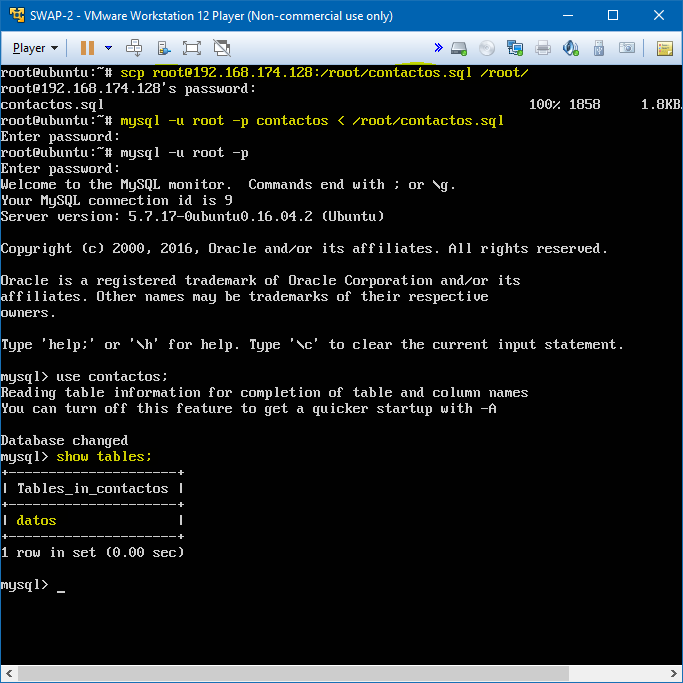
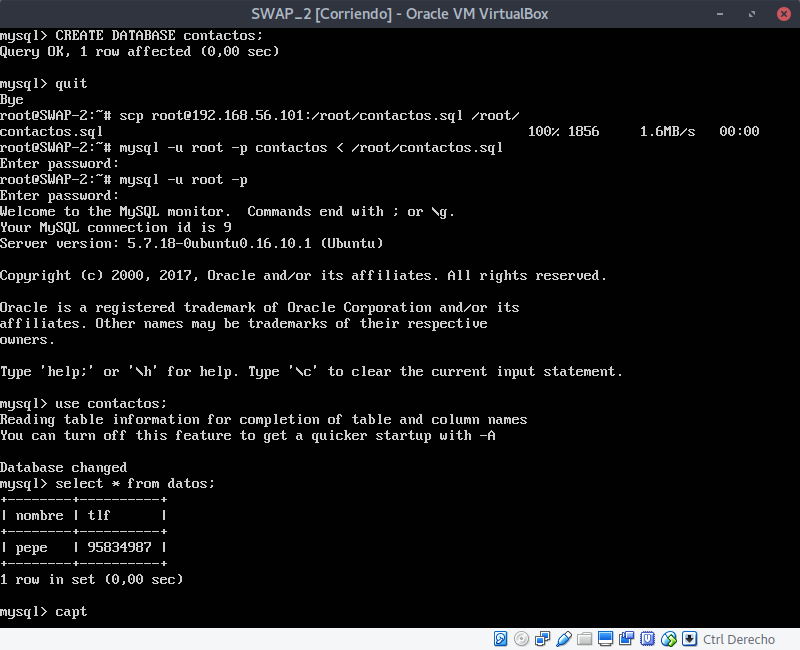
práctica 5 terminada

diff --git a/Practica5/readme.md b/Practica5/readme.md
@@ -26,7 +26,7 @@ La secuencia de comandos a seguir será la siguiente:
 mysql -u root -p
 mysql> FLUSH TABLES WITH READ LOCK;   #para bloquear la escritura en las tablas mientras son copiadas
 mysql> QUIT;
-mysqldumpl contactos -u root -p > /root/contactos.sql
+mysqldump contactos -u root -p > /root/contactos.sql
 mysql -u root -p
 mysql> UNLOCK TABLES;
 ```
@@ -35,8 +35,65 @@ mysql> UNLOCK TABLES;
 
 ### 3 - Restaurar dicha copia en la segunda máquina (clonado manual de la BD).
 
+Para finalizar con la parte relativa al clonado de la base de datos, tocará irse a la segunda máquina servidora, crear la base de datos de igual nombre que en la primera, e invocar el siguiente comando `scp` que será quien obtenga el archivo .sql de la primera máquina:
+
+```bash
+scp root@IP-MAQUINA1:/root/BASEDEDATOS.sql /root/
+```
+
+A continuación, bastará con volcar el contenido del archivo obtenido en la nueva base de datos previamente creada. Con esto bastará para tener la base de datos replicada en la segunda máquina. Veamos una captura con los pasos realizados:
+
 ![mysqldump-copied](https://github.com/adrianmorente/SWAP_UGR/blob/master/Practica5/images/mysqldump-copied.png)
 
 ### 4 - Realizar la configuración maestro-esclavo de los servidores MySQL para que la replicación de datos se realice automáticamente.
 
-![mysql-config](https://github.com/adrianmorente/SWAP_UGR/blob/master/Practica5/images/mysql-config.png)
+Para comenzar con esta configuración, empezaremos desde el lado del Maestro (máquina 1, en nuestro caso); y configuraremos en ambas partes el archivo `/etc/mysql/mysql.conf.d/mysqld.cnf` aplicando los cambios citados en el guión de la práctica:
+
+```bash
+...
+#bind-address 127.0.0.1
+log_error = /var/log/mysql/error.log
+server-id = 1
+log_bin = /var/log/mysql/bin.log
+...
+```
+
+Una vez modificados estos campos, reiniciamos el servicio `mysql` como ya sabemos, y pasamos a configurar la máquina esclava; que en este caso, seguirá la misma configuración del mismo fichero exceptuando el campo `server-id`, que tendrá valor ***2***.
+
+Una vez hecho esto, reiniciamos el servicio y volvemos a la máquina maestra, e introducimos los siguientes comandos en mysql:
+
+```mysql
+CREATE USER esclavo IDENTIFIED BY 'esclavo';
+GRANT REPLICATION SLAVE ON *.* TO 'esclavo'@'%' IDENTIFIED BY 'esclavo';
+FLUSH PRIVILEGES;
+FLUSH TABLES;
+FLUSH TABLES WITH READ LOCK;
+```
+
+Con estos comandos, estaremos creando el usuario esclavo con sus credenciales, además de recargar la información de tablas y privilegios, y bloqueando estas tablas ante nuevas escrituras (como ya hicimos antes). Además, ejecutamos el comando `SHOW MASTER STATUS;` para mostrar la información del maestro, tan necesaria para la configuración del esclavo:
+
+![mysql-master](https://github.com/adrianmorente/SWAP_UGR/blob/master/Practica5/images/mysql-master.png)
+
+Visto esto, rellenamos el siguiente comando con la información obtenida en esta última captura para configurar mysql en la parte de la máquina esclava, de forma que empiece a funcionar como tal:
+
+```mysql
+CHANGE MASTER TO MASTER_HOST='192.168.56.101', MASTER_USER='esclavo', MASTER_PASSWORD='esclavo', MASTER_LOG_FILE='bin.000001', MASTER_LOG_POS=980, MASTER_PORT=3306;
+```
+
+Una vez hecho esto, iniciamos la máquina en modo esclavo y mostramos su estado de configuración y ejecución para comprobar que todo está funcionando correctamente. Ésto lo hacemos con los siguientes comandos en mysql:
+
+```mysql
+START SLAVE;
+
+SHOW SLAVE STATUS\G
+```
+
+La última orden imprimirá diversas líneas de estado y configuración, pero la que nos interesa es la que comprende el campo ***"Seconds_Behind_Master"***, que nos garantiza que el servicio está funcionando correctamente si su valor es ***distinto de NULL***.
+
+En nuestro caso, como vemos en la siguiente captura, su valor es 0; por lo que el esclavo está funcionando correctamente y actualizando la base de datos con respecto a la máquina 1.
+
+![mysql-slave](https://github.com/adrianmorente/SWAP_UGR/blob/master/Practica5/images/mysql-slave.png)
+
+Para finalizar, veamos una muestra del replicado automático mediante conexión maestro-esclavo. Primero, mostramos los valores de la tabla DATOS en la máquina 2, a continuación insertamos una nueva línea desde la máquina 1; y vemos cómo se añade en la misma tabla de la máquina esclava:
+
+![mysql-master-slave](https://github.com/adrianmorente/SWAP_UGR/blob/master/Practica5/images/mysql-master-slave.png)
